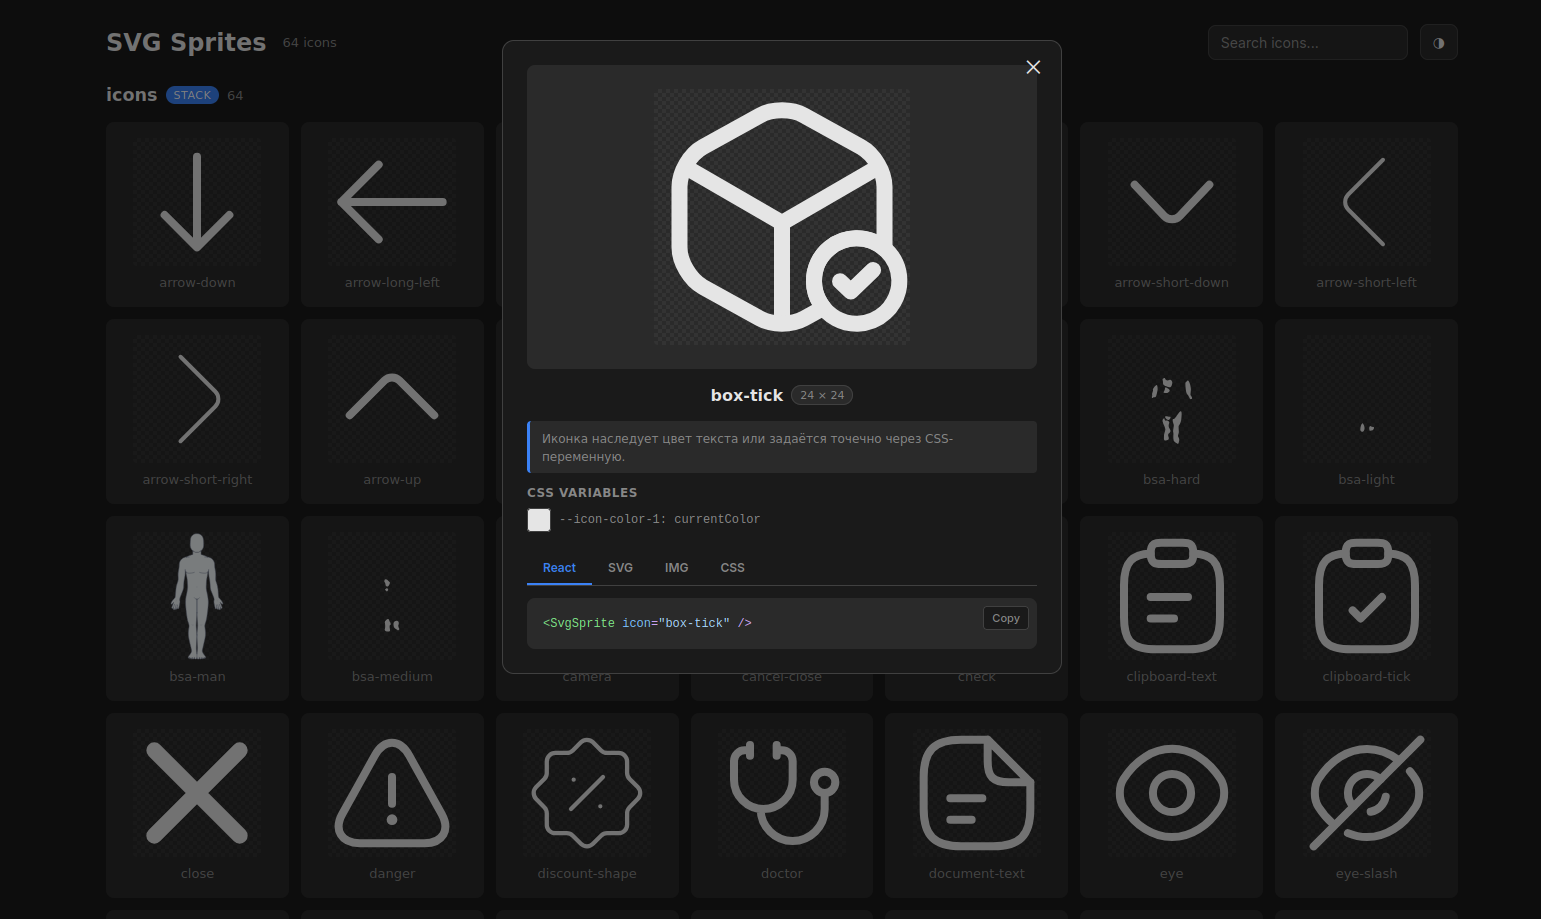
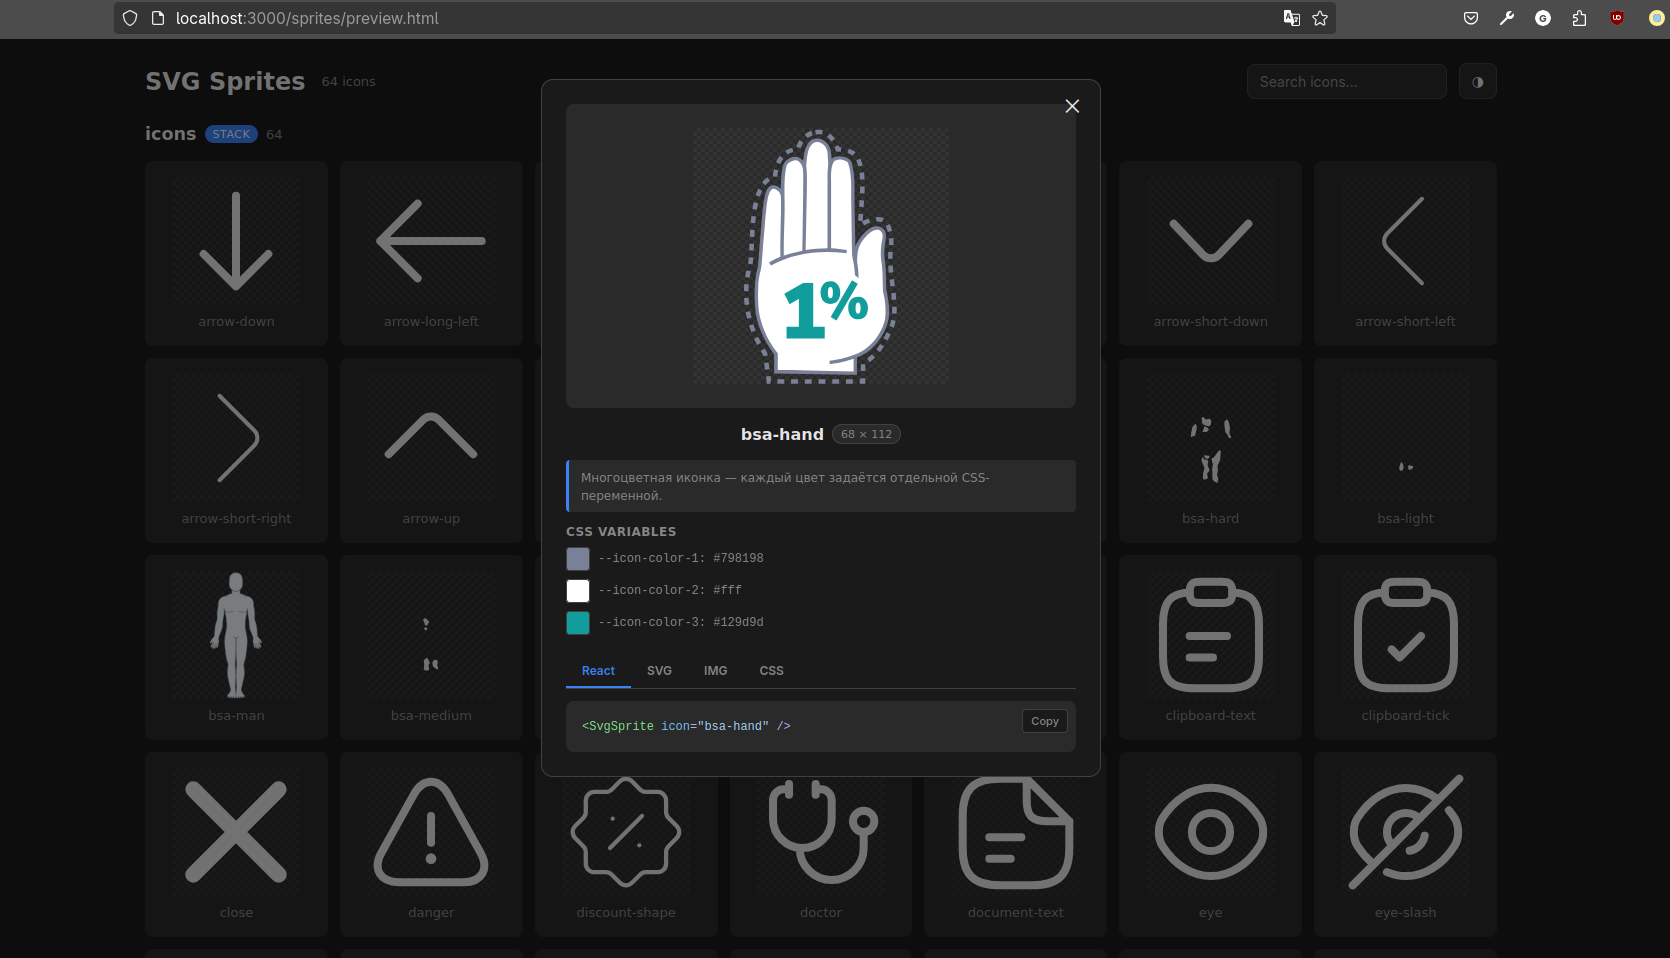
docs: переработать README

diff --git a/README.md b/README.md
@@ -1,8 +1,21 @@
 # @gromlab/svg-sprites
+
+![npm](https://img.shields.io/npm/v/@gromlab/svg-sprites) ![license](https://img.shields.io/npm/l/@gromlab/svg-sprites)
+
 Генерация SVG-спрайтов из папок с иконками. TypeScript-типизация, SVG-трансформации, React-компонент и HTML-превью из коробки.
 
 ![Preview](https://gromlab.ru/gromov/svg-sprites/media/branch/master/preview-image.png)
 
+**Чем отличается от аналогов:**
+
+- Генерирует готовый типизированный React-компонент — не нужно писать обёртку
+- Автоматически заменяет цвета на CSS-переменные — для тем и hover-состояний
+- Выдаёт HTML-превью всех иконок — удобно пересылать дизайнеру
+
+## Требования
+
+- Node.js 18+
+- React 18+ (опционально, только если нужен генерируемый компонент)
 
 ## Установка
 
@@ -22,12 +35,11 @@ export default defineConfig({
   output: 'public/sprites',
 
   // URL-путь к спрайтам (для href в React-компоненте)
-  publicPath: '/public/sprites',
+  publicPath: '/sprites',
 
   // Папка для React-компонента и типов
   react: 'src/shared/ui/svg-sprite',
 
-  // Массив спрайтов имя и откуда наполняем.
   sprites: [
     { name: 'icons', input: 'src/assets/icons' },
     { name: 'logos', input: 'src/assets/logos' },
@@ -38,21 +50,13 @@ export default defineConfig({
 Запустите генерацию:
 
 ```bash
+# или добавьте "sprite": "svg-sprites" в scripts вашего package.json
 npx svg-sprites
 ```
 
-Результат:
+В результате будут сгенерированы SVG-спрайты, типизированный React-компонент и HTML-превью.
 
-```
-public/
-  icons.sprite.svg
-  logos.sprite.svg
-  preview.html
-
-src/shared/ui/svg-sprite/
-  svg-sprite.tsx
-  svg-sprite.module.css
-```
+Цвета иконок автоматически заменяются на CSS-переменные — см. раздел [Управление цветом](#управление-цветом).
 
 ## Использование компонента
 
@@ -69,11 +73,20 @@ import { SvgSprite } from './shared/ui/svg-sprite'
 <SvgSprite icon="arrow-left" wrapped />
 ```
 
-Компонент полностью типизирован — автодополнение работает для имён иконок и спрайтов.
+Компонент полностью типизирован — автодополнение работает для имён иконок и спрайтов. Типы экспортируются из того же модуля:
+
+```ts
+import type {
+  IconsIconName,  // 'check' | 'arrow-left' | ...
+  LogosIconName,  // 'github' | 'twitter' | ...
+  SpriteName,     // 'icons' | 'logos'
+  SpriteMap,      // { icons: IconsIconName, logos: LogosIconName }
+} from './shared/ui/svg-sprite'
+```
 
 ## Управление цветом
 
-При сборке цвета иконок заменяются на CSS-переменные.
+При сборке цвета иконок заменяются на CSS-переменные. Это ключевая фича — иконки адаптируются к теме без дублирования SVG.
 
 **Моно-иконка** (один цвет) — наследует `color` текста:
 
@@ -96,19 +109,27 @@ import { SvgSprite } from './shared/ui/svg-sprite'
 }
 ```
 
+## Способы рендера
+
+| Способ | Управление цветом | Пример |
+|--------|-------------------|--------|
+| React / SVG `<use>` | CSS-переменные, `color` | `<SvgSprite icon="check" />` |
+| CSS `mask-image` | `background-color` (монохром) | `.icon { mask: url(...); background-color: red; }` |
+| `<img>` | нет | `<img src="icons.sprite.svg#check">` |
+
 ## Конфигурация
 
-### `output` (обязательный)
+### Основные опции
 
-Папка для сгенерированных спрайтов.
+| Опция | Обязательная | Описание |
+|-------|-------------|----------|
+| `output` | да | Папка для сгенерированных SVG-спрайтов |
+| `sprites` | да | Массив спрайтов для генерации |
+| `publicPath` | нет | URL-путь к спрайтам (для `href` в React-компоненте) |
+| `react` | нет | Путь для генерации React-компонента и типов |
+| `preview` | нет | Генерация HTML-превью (по умолчанию: `true`) |
 
-```ts
-output: 'public/sprites'
-```
-
-### `sprites` (обязательный)
-
-Массив спрайтов для генерации.
+### `sprites`
 
 ```ts
 sprites: [
@@ -132,13 +153,15 @@ sprites: [
 Публичный URL-путь к спрайтам. Зашивается в React-компонент для формирования `href`.
 
 ```ts
-publicPath: '/img/sprites'
-// → <use href="/img/sprites/icons.sprite.svg#check" />
+publicPath: '/sprites'
+// → <use href="/sprites/icons.sprite.svg#check" />
 ```
+
+> **Примечание:** путь не должен включать имя папки `public` — она не входит в URL в Vite/Next.
 
 ### `react`
 
-Путь для генерации React-компонента. Имена файлов берутся из названия папки.
+Имена файлов берутся из названия папки:
 
 ```ts
 react: 'src/shared/ui/svg-sprite'
@@ -146,14 +169,6 @@ react: 'src/shared/ui/svg-sprite'
 ```
 
 Если не задан — компонент и типы не генерируются.
-
-### `preview`
-
-Генерация HTML-превью со всеми иконками. По умолчанию: `true`.
-
-```ts
-preview: false
-```
 
 ### `transform`
 
@@ -175,26 +190,11 @@ transform: {
 }
 ```
 
-## Сгенерированные типы
+## Ограничения
 
-React-компонент включает TypeScript-типы для каждого спрайта:
-
-```ts
-import type {
-  IconsIconName,  // 'check' | 'arrow-left' | ...
-  LogosIconName,  // 'github' | 'twitter' | ...
-  SpriteName,     // 'icons' | 'logos'
-  SpriteMap,      // { icons: IconsIconName, logos: LogosIconName }
-} from './shared/ui/svg-sprite'
-```
-
-## Способы рендера
-
-| Способ | Управление цветом | Пример |
-|--------|-------------------|--------|
-| React / SVG `<use>` | CSS-переменные, `color` | `<SvgSprite icon="check" />` |
-| CSS `mask-image` | `background-color` (монохром) | `.icon { mask: url(...); background-color: red; }` |
-| `<img>` | нет | `<img src="icons.sprite.svg#check">` |
+- `mode: 'symbol'` — поддерживается, но превью и примеры кода оптимизированы под `stack`
+- `replaceColors` может некорректно обработать иконки со сложными градиентами — используйте `transform: { replaceColors: false }` для таких случаев
+- Генерируемый React-компонент предназначен для React 18+. Для Vue/Svelte используйте спрайты напрямую через SVG `<use>`
 
 ## Программный API
 